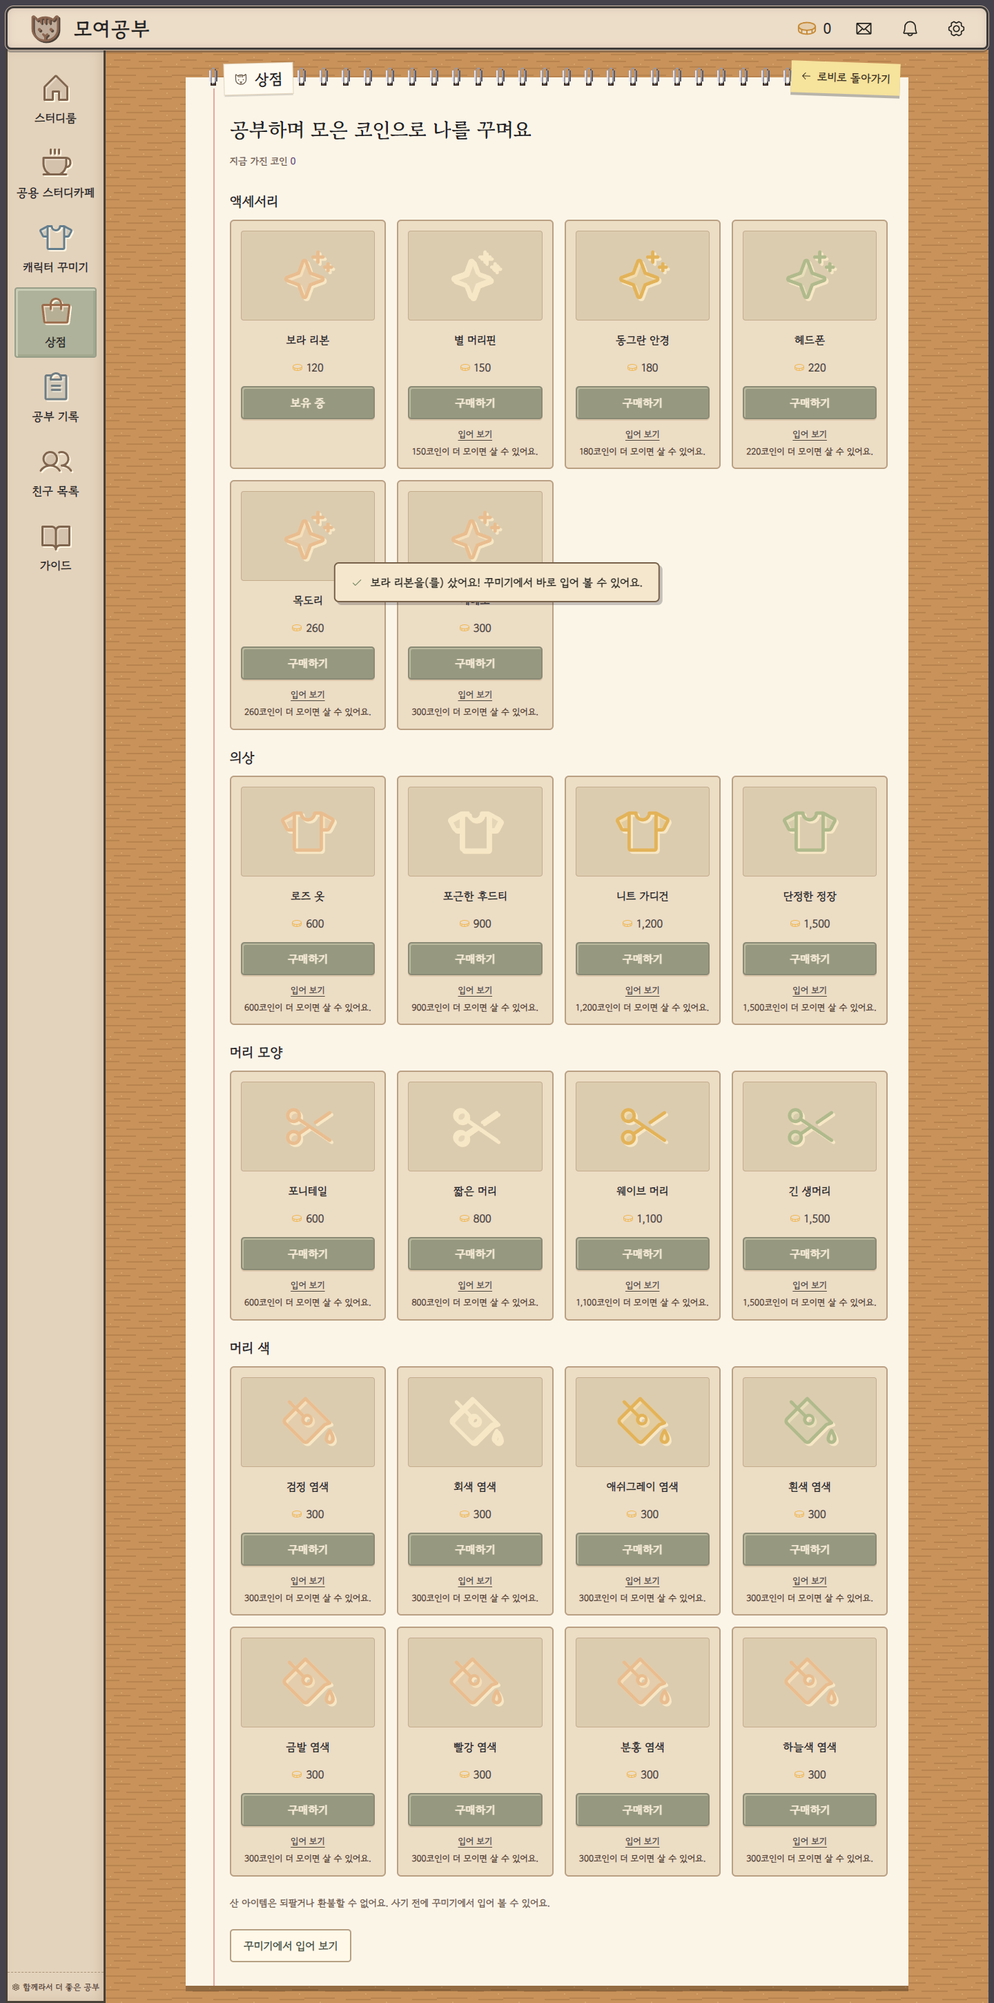
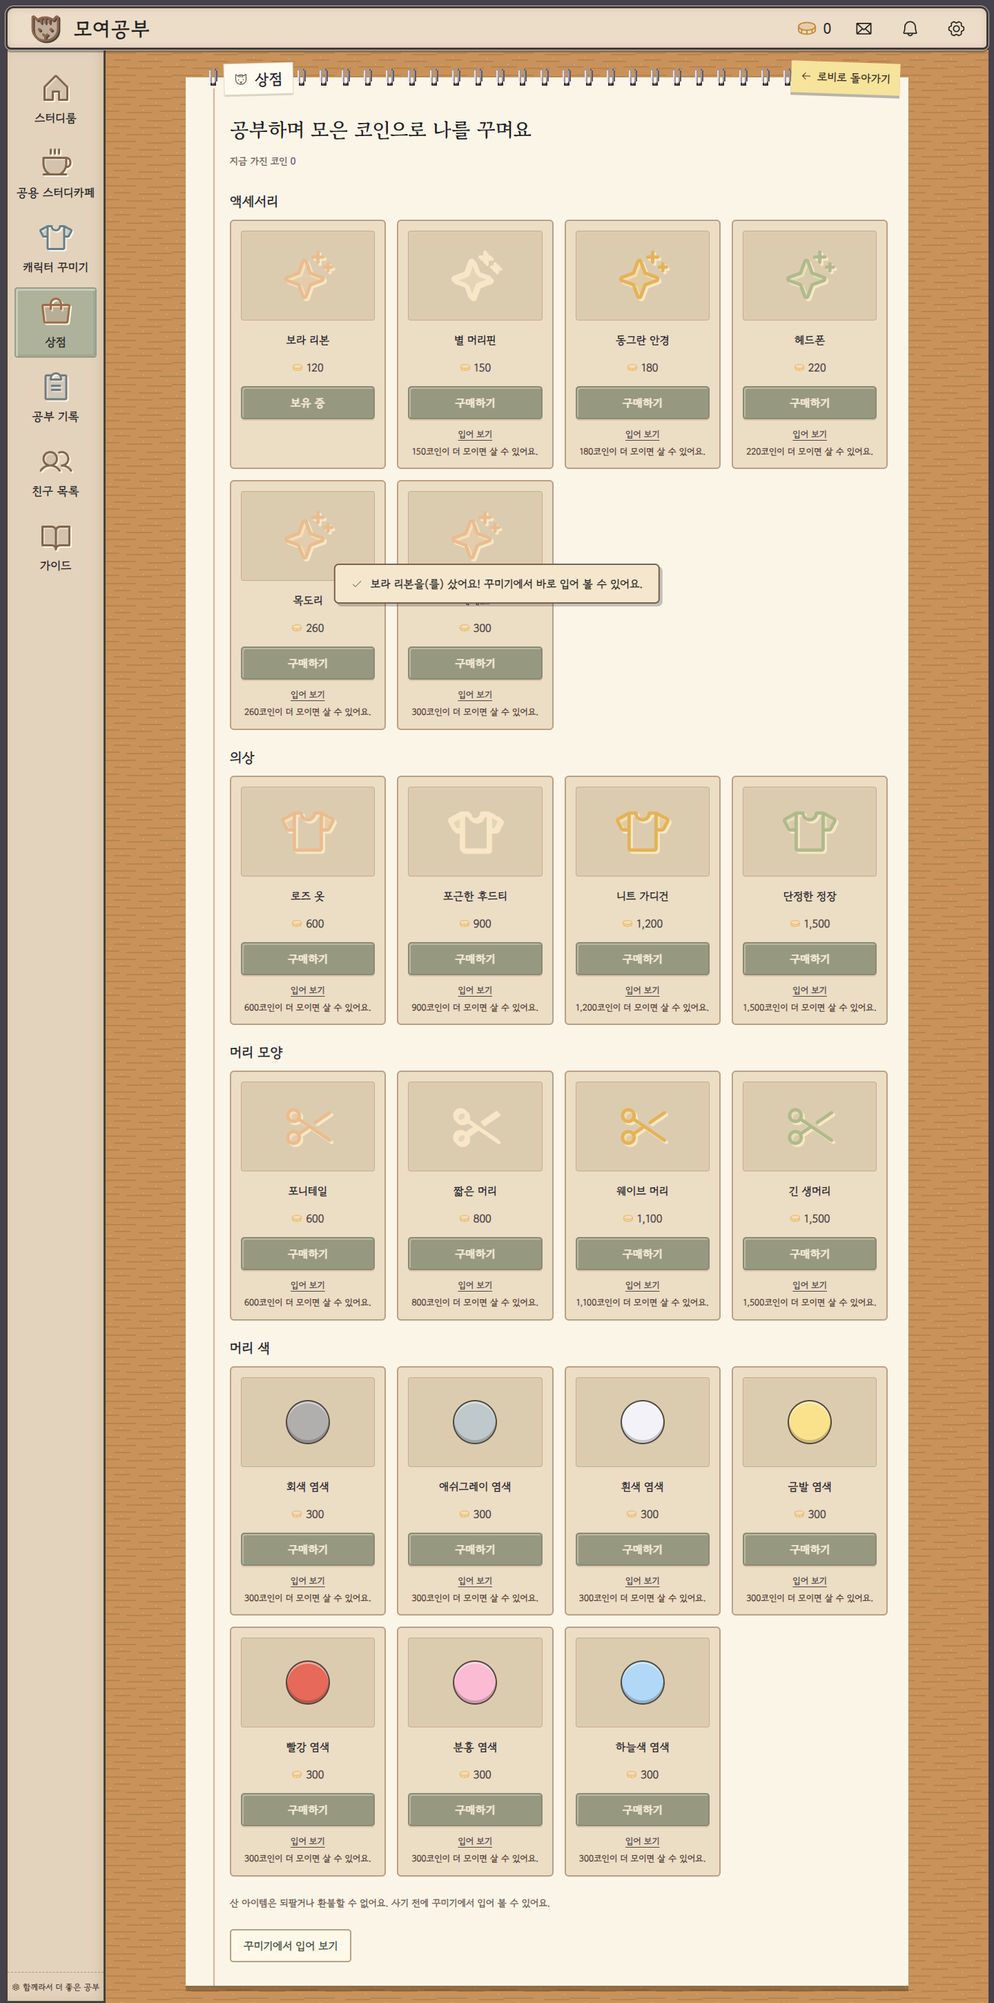
feat: creator-style customize screen with color swatches, black defaults
- hair color and eye color are picked from round color swatches; hair
  styles, outfits and accessories show a 2x thumbnail of your own
  character wearing that item (head or body crop), dimmed with a 준비 중
  tag while the item has no art yet; coin mark on items not owned
- the first look is 단발 머리 (bald until its art exists), black hair
  and black eyes; black hair is free with chestnut and lavender, the
  other seven dyes stay 300 coins
- shop cards for hair colors show the swatch instead of an icon
- LayerStack gets a decorative mode for the thumbnails (no role, no
  test id) so the big preview stays the only character-layers element

Both migrations are still unapplied, so they were edited in place.

Story: story-009-pixel-art

Claude-Session: https://claude.ai/code/session_01HWhC6cf8F1yVMHeXCiKLYb

diff --git a/src/features/character/view/CharacterPage.tsx b/src/features/character/view/CharacterPage.tsx
@@ -1,23 +1,37 @@
-import { Check } from "@phosphor-icons/react";
-import { useEffect, useRef } from "react";
+import { Check, Coin } from "@phosphor-icons/react";
+import { useEffect, useRef, type CSSProperties } from "react";
 import { useNavigate, useSearchParams } from "react-router-dom";
+import { ITEM_ASSETS } from "../../../config/shop";
 import { characterSprites } from "../../../study/characterSprites";
 import { useProfile } from "../../account/viewmodel/useAccount";
-import type { ItemSlot } from "../../shop/model/shop";
+import type { ItemSlot, ShopItem } from "../../shop/model/shop";
 import { ROUTES } from "../../shell/model/paths";
 import PageFrame from "../../shell/view/PageFrame";
 import { useAppState } from "../../shell/viewmodel/AppStateContext";
 import { tryOnNotice } from "../model/look";
-import { isWorn, useCustomize } from "../viewmodel/useCharacter";
+import type { Look } from "../model/layers";
+import { isWorn, useCustomize, wearItem } from "../viewmodel/useCharacter";
 import LayerStack from "./LayerStack";
 
-const SLOTS: readonly { slot: ItemSlot; label: string }[] = [
-  { slot: "hair", label: "머리 모양" },
-  { slot: "hair_color", label: "머리 색" },
-  { slot: "face", label: "눈" },
-  { slot: "outfit", label: "의상" },
-  { slot: "accessory", label: "액세서리" },
+/**
+ * 꾸미기 칸. 색(머리 색, 눈)은 색 동그라미로, 나머지는 내 캐릭터에 입혀 본 작은 그림으로 고른다.
+ * view가 head면 머리 부분을, body면 몸 부분을 잘라 보여 준다.
+ */
+const SLOTS: readonly { slot: ItemSlot; label: string; view: "swatch" | "head" | "body" }[] = [
+  { slot: "hair", label: "머리 모양", view: "head" },
+  { slot: "hair_color", label: "머리 색", view: "swatch" },
+  { slot: "face", label: "눈", view: "swatch" },
+  { slot: "outfit", label: "의상", view: "body" },
+  { slot: "accessory", label: "액세서리", view: "head" },
 ];
+
+/** 선택지 그림: 지금 모습에 이 아이템만 입힌 모습 (액세서리는 이미 쓰고 있어도 쓴 모습). */
+const previewWith = (look: Look, item: ShopItem): Look =>
+  item.slot === "accessory" ? { ...look, accessory: item.id } : wearItem(look, item.slot, item.id);
+
+/** 선택지 상태 글: 기본, 보유 중, 입어 보기 가격. */
+const ownership = (item: ShopItem) =>
+  item.isDefault ? "기본" : item.owned ? "보유 중" : `입어 보기 ${item.price.toLocaleString()}코인`;
 
 const BASE_SPRITE = characterSprites.idle.down[0];
 
@@ -48,7 +62,7 @@ export default function CharacterPage() {
         <h1>{c.firstTime ? "처음 꾸미기" : "오늘은 어떤 모습으로 공부할까?"}</h1>
         <p>
           {c.firstTime
-            ? "머리 색 2종, 눈 색 7종, 의상 2종을 무료로 드려요. 마음에 드는 모습을 골라 시작해 보세요."
+            ? "머리 색 3종, 눈 색 7종, 의상 2종을 무료로 드려요. 마음에 드는 모습을 골라 시작해 보세요."
             : "산 아이템은 바로 적용하고, 사지 않은 아이템은 입어 볼 수 있어요."}
         </p>
       </div>
@@ -69,31 +83,51 @@ export default function CharacterPage() {
             <span className={c.tryingOn.length ? "try-on-note" : ""}>{c.tryingOn.length ? tryOnNotice : c.changed ? "바꾼 모습이에요. 저장하면 적용돼요." : "지금 적용된 모습"}</span>
           </div>
           <div className="wardrobe">
-            {slots.map(({ slot, label }) => (
-              <section key={slot} className="wardrobe-slot" aria-label={label}>
-                <h2>{label}</h2>
-                <div className="outfit-options item-options">
-                  {shown
-                    .filter((i) => i.slot === slot)
-                    .map((item) => {
+            {slots.map(({ slot, label, view }) => {
+              const options = shown.filter((i) => i.slot === slot);
+              const picked = options.find((i) => isWorn(c.look, i));
+              return (
+                <section key={slot} className="wardrobe-slot" aria-label={label}>
+                  <h2>
+                    {label}
+                    {picked && <small className="picked-name">{picked.name}</small>}
+                  </h2>
+                  <div className={`outfit-options item-options ${view === "swatch" ? "swatch-options" : "thumb-options"}`}>
+                    {options.map((item) => {
                       const worn = isWorn(c.look, item);
+                      const state = ownership(item);
+                      const asset = ITEM_ASSETS[item.id];
+                      const soon = asset?.placeholder !== false;
                       return (
                         <button
                           key={item.id}
                           data-item={item.id}
                           aria-pressed={worn}
-                          className={`${worn ? "selected" : ""} ${item.owned ? "" : "not-owned"}`}
+                          aria-label={`${item.name}, ${state}`}
+                          title={`${item.name}, ${state}`}
+                          className={`${view === "swatch" ? "swatch" : "thumb"} ${worn ? "selected" : ""} ${item.owned ? "" : "not-owned"}`}
                           onClick={() => c.wear(item)}
                         >
-                          <strong>{item.name}</strong>
-                          <small>{item.isDefault ? "기본" : item.owned ? "보유 중" : `입어 보기 ${item.price.toLocaleString()}코인`}</small>
-                          {worn && <Check />}
+                          {view === "swatch" ? (
+                            <span className="color-swatch" style={{ "--swatch": asset?.swatch ?? "#c0a98d" } as CSSProperties} />
+                          ) : (
+                            <>
+                              <span className={`thumb-window thumb-${view}${soon ? " soon" : ""}`}>
+                                <LayerStack look={previewWith(c.look, item)} label="" decorative className="thumb-stack" />
+                                {soon && <span className="thumb-soon">준비 중</span>}
+                              </span>
+                              <small>{item.name}</small>
+                            </>
+                          )}
+                          {!item.owned && <Coin className="price-mark" weight="fill" />}
+                          {worn && <Check className="worn-mark" />}
                         </button>
                       );
                     })}
-                </div>
-              </section>
-            ))}
+                  </div>
+                </section>
+              );
+            })}
             {c.tryingOn.length > 0 && (
               <p className="buy-reason" role="status">
                 입어 본 {trying}은(는) 상점에서 산 뒤 저장할 수 있어요.

diff --git a/src/config/shop.ts b/src/config/shop.ts
@@ -27,42 +27,44 @@ export interface ItemAsset {
   hairStyle?: string;
   /** 머리 색 아이템: 머리 시트 이름의 색 부분. */
   hairColor?: string;
+  /** 색 견본: 머리 색과 눈 색은 꾸미기에서 이름 대신 이 색 동그라미로 고른다. */
+  swatch?: string;
 }
 
 const sheet = (name: string): LayerSource => ({ sheet: `/assets/characters/layers/${name}.png` });
-/** 눈 색 아이템: 얼굴 레이어 시트 하나. */
-const face = (id: string): ItemAsset => ({ placeholder: false, layers: { face: sheet(id) } });
+/** 눈 색 아이템: 얼굴 레이어 시트 하나. 견본은 눈동자 중간 톤(recolor의 0.65 자리). */
+const face = (id: string, swatch: string): ItemAsset => ({ placeholder: false, layers: { face: sheet(id) }, swatch });
 /** 머리 모양 아이템. 시트는 머리 색과 함께 정해진다 (hairSheet). */
 const hairStyle = (style: string): ItemAsset => ({ placeholder: false, layers: {}, hairStyle: style });
-/** 머리 색 아이템. 모든 머리 모양에 쓴다. */
-const hairColor = (color: string): ItemAsset => ({ placeholder: false, layers: {}, hairColor: color });
+/** 머리 색 아이템. 모든 머리 모양에 쓴다. 견본은 웨이브 머리 시트에서 가장 많이 쓴 밝은 톤. */
+const hairColor = (color: string, swatch: string): ItemAsset => ({ placeholder: false, layers: {}, hairColor: color, swatch });
 
 /** 아이템 id → 그림. 표에 없는 id는 그리지 않는다 (서버에 새 아이템이 먼저 생겨도 화면이 깨지지 않는다). */
 export const ITEM_ASSETS: Readonly<Record<string, ItemAsset>> = {
   // 기본 몸: 머리카락과 눈, 입이 없는 몸, 회색 바디슈트.
   "body-basic": { placeholder: false, layers: { body: sheet("body-basic") } },
   // 기본 얼굴(보라 눈): 승인 시안 N1의 눈과 입 (art-src/characters/src/face/basic).
-  "face-basic": face("face-basic"),
+  "face-basic": face("face-basic", "#5707a7"),
   // 아래 눈 색은 기본 얼굴의 눈동자 색만 바꿨다 (art-src/characters/src/recolor/<id>.json).
-  "face-black": face("face-black"),
-  "face-brown": face("face-brown"),
-  "face-amber": face("face-amber"),
-  "face-green": face("face-green"),
-  "face-blue": face("face-blue"),
-  "face-gray": face("face-gray"),
+  "face-black": face("face-black", "#322c36"),
+  "face-brown": face("face-brown", "#804620"),
+  "face-amber": face("face-amber", "#c87612"),
+  "face-green": face("face-green", "#228048"),
+  "face-blue": face("face-blue", "#285cc4"),
+  "face-gray": face("face-gray", "#6c727e"),
   // 머리 모양. 웨이브는 처음 승인한 N1 머리카락이다 (art-src/characters/src/hair/wave).
   "hair-wave": hairStyle("wave"),
   // 머리 색 (art-src/characters/src/recolor/hair-color/<색>.json, 라벤더는 원재료 색 그대로).
-  "hair-color-lavender": hairColor("lavender"),
-  "hair-color-chestnut": hairColor("chestnut"),
-  "hair-color-black": hairColor("black"),
-  "hair-color-gray": hairColor("gray"),
-  "hair-color-ashgray": hairColor("ashgray"),
-  "hair-color-white": hairColor("white"),
-  "hair-color-blonde": hairColor("blonde"),
-  "hair-color-red": hairColor("red"),
-  "hair-color-pink": hairColor("pink"),
-  "hair-color-skyblue": hairColor("skyblue"),
+  "hair-color-black": hairColor("black", "#3a3848"),
+  "hair-color-chestnut": hairColor("chestnut", "#a9633d"),
+  "hair-color-lavender": hairColor("lavender", "#d2aef0"),
+  "hair-color-gray": hairColor("gray", "#b1afad"),
+  "hair-color-ashgray": hairColor("ashgray", "#bfc9cb"),
+  "hair-color-white": hairColor("white", "#f2f2f8"),
+  "hair-color-blonde": hairColor("blonde", "#fae28d"),
+  "hair-color-red": hairColor("red", "#e66959"),
+  "hair-color-pink": hairColor("pink", "#fabbd3"),
+  "hair-color-skyblue": hairColor("skyblue", "#b1d8f6"),
   // 교복: 완성 캐릭터에서 임시로 떼어 냈다 (art-src/characters/src/outfit/uniform/FROM-FULL-CHARACTER).
   "outfit-lavender": { placeholder: false, layers: { outfit: sheet("outfit-uniform") } },
   "acc-ribbon": { placeholder: false, layers: { accessory: sheet("acc-ribbon") } },
@@ -72,7 +74,7 @@ export const ITEM_ASSETS: Readonly<Record<string, ItemAsset>> = {
   "outfit-hoodie": { placeholder: true, layers: {}, bodyTint: "outfit-세이지" },
   "outfit-cardigan": { placeholder: true, layers: {}, bodyTint: "outfit-로즈" },
   "outfit-suit": { placeholder: true, layers: {} },
-  // 기본 머리: 단순한 머리 그림을 만들기 전까지 머리카락 없이 보인다.
+  // 단발 머리(기본): 그림을 만들기 전까지 머리카락 없이 보인다.
   "hair-basic": { placeholder: true, layers: {} },
   "hair-ponytail": { placeholder: true, layers: {} },
   "hair-short": { placeholder: true, layers: {} },
@@ -94,13 +96,13 @@ export function hairSheet(styleId: string, colorId: string, which: "front" | "ba
   return style && color ? sheet(`hair-${style}-${color}-${which}`) : null;
 }
 
-/** 아직 저장한 꾸밈이 없을 때 보여 주는 모습 (서버 기본 아이템 id). */
+/** 아직 저장한 꾸밈이 없을 때 보여 주는 모습 (서버 기본 아이템 id): 단발 머리, 검은 머리, 검은 눈. */
 export const DEFAULT_LOOK = {
   body: "body-basic",
-  face: "face-basic",
+  face: "face-black",
   hair_back: "hair-basic",
   hair_front: "hair-basic",
-  hair_color: "hair-color-lavender",
+  hair_color: "hair-color-black",
   outfit: "outfit-lavender",
   accessory: null,
 } as const;

diff --git a/src/styles.css b/src/styles.css
@@ -589,6 +589,10 @@ button:active {
   border: 1px solid #c4ac8d;
   border-radius: 4px;
 }
+.item-art .color-swatch {
+  width: 64px;
+  height: 64px;
+}
 .item-art svg {
   width: 78px;
   height: 78px;
@@ -1326,6 +1330,93 @@ button:active {
 .item-options button small {
   color: #826a56;
   font-size: 12px;
+}
+/* 꾸미기 선택지 (Story 009): 색은 동그라미, 나머지는 내 캐릭터에 입혀 본 2배 작은 그림 */
+.wardrobe-slot h2 {
+  display: flex;
+  align-items: baseline;
+  gap: 10px;
+}
+.picked-name {
+  color: #86735e;
+  font-size: 13px;
+  font-weight: 400;
+}
+.item-options button.swatch {
+  width: 46px;
+  height: 46px;
+  padding: 4px;
+  border-radius: 50%;
+}
+.color-swatch {
+  display: block;
+  width: 100%;
+  height: 100%;
+  border: 2px solid #50483f;
+  border-radius: 50%;
+  background: var(--swatch);
+  box-shadow: inset 0 -4px 0 rgb(0 0 0 / 18%), inset 0 3px 0 rgb(255 255 255 / 40%);
+}
+.item-options button.thumb {
+  width: 110px;
+  padding: 6px 6px 8px;
+}
+.thumb-window {
+  position: relative;
+  display: block;
+  width: 96px;
+  height: 88px;
+  overflow: hidden;
+  background: #fbf5e8;
+  border: 1px solid #b6a084;
+}
+/* 56×72 칸을 정확히 2배(112×144)로 그리고 가운데 48칸 너비에서 머리(4~48줄)나 몸(28~72줄)만 창에 맞춘다. */
+.thumb-window .thumb-stack {
+  position: absolute;
+  left: -8px;
+  width: 112px;
+  border: 0;
+  background: none;
+}
+.thumb-head .thumb-stack {
+  top: -8px;
+}
+.thumb-body .thumb-stack {
+  top: -56px;
+}
+/* 전용 그림이 아직 없는 아이템: 흐리게 두고 위쪽에 작은 표를 붙인다. */
+.thumb-window.soon .thumb-stack {
+  opacity: 0.45;
+}
+.thumb-soon {
+  position: absolute;
+  z-index: 60;
+  top: 0;
+  right: 0;
+  padding: 1px 6px;
+  background: #3b2c22;
+  color: #f4e8d5;
+  font-size: 12px;
+}
+.item-options .price-mark {
+  position: absolute;
+  z-index: 61;
+  top: -6px;
+  left: -6px;
+  color: #f1b854;
+  background: #3b2c22;
+  border-radius: 50%;
+}
+.item-options .worn-mark {
+  position: absolute;
+  z-index: 61;
+  top: -6px;
+  right: -6px;
+}
+.item-options button.swatch .worn-mark,
+.item-options button.swatch .price-mark {
+  width: 16px;
+  height: 16px;
 }
 .item-options button.not-owned {
   border-style: dashed;

diff --git a/src/features/character/view/LayerStack.tsx b/src/features/character/view/LayerStack.tsx
@@ -11,6 +11,8 @@ interface Props {
   frame?: number;
   label: string;
   className?: string;
+  /** 꾸미기 선택지의 작은 미리보기: 보조 기술에서 숨기고 테스트 id도 달지 않는다 (큰 미리보기와 헷갈리지 않게). */
+  decorative?: boolean;
 }
 
 /**
@@ -18,12 +20,12 @@ interface Props {
  * data-layer-* 속성에 레이어마다 고른 아이템 id(머리는 모양)가, data-hair-color에 머리 색이,
  * data-direction과 data-frame에 지금 방향과 시트 칸이 남는다.
  */
-export default function LayerStack({ look, action = "idle", direction = "down", frame = 0, label, className = "" }: Props) {
+export default function LayerStack({ look, action = "idle", direction = "down", frame = 0, label, className = "", decorative = false }: Props) {
   const index = frameIndex(action, direction, frame);
   const layers = composeLayers(look);
   const data = Object.fromEntries(layers.map((l) => [`data-layer-${l.id.replace("_", "-")}`, l.itemId ?? ""]));
   return (
-    <div className={`layer-stack ${className}`} role="img" aria-label={label} data-testid="character-layers"
+    <div className={`layer-stack ${className}`} {...(decorative ? { "aria-hidden": true } : { role: "img", "aria-label": label, "data-testid": "character-layers" })}
       data-direction={direction} data-pose={`${action}.${direction}`} data-frame={index}
       style={{ aspectRatio: `${CANVAS.width} / ${CANVAS.height}` }} data-hair-color={look.hair_color} {...data}>
       {layers.map((l) =>

diff --git a/src/features/shop/view/ShopPage.tsx b/src/features/shop/view/ShopPage.tsx
@@ -1,6 +1,7 @@
 import { Coin, PaintBucket, Scissors, Sparkle, TShirt, type Icon } from "@phosphor-icons/react";
-import { useState } from "react";
+import { useState, type CSSProperties } from "react";
 import { useNavigate } from "react-router-dom";
+import { ITEM_ASSETS } from "../../../config/shop";
 import { ROUTES } from "../../shell/model/paths";
 import PageFrame from "../../shell/view/PageFrame";
 import { useAppState } from "../../shell/viewmodel/AppStateContext";
@@ -51,7 +52,11 @@ export default function ShopPage() {
                     return (
                       <div className="shop-item" key={item.id} data-item={item.id}>
                         <div className="item-art">
-                          <ItemIcon weight="duotone" />
+                          {ITEM_ASSETS[item.id]?.swatch ? (
+                            <span className="color-swatch" style={{ "--swatch": ITEM_ASSETS[item.id]?.swatch } as CSSProperties} />
+                          ) : (
+                            <ItemIcon weight="duotone" />
+                          )}
                         </div>
                         <h3>{item.name}</h3>
                         <span className="price">

diff --git a/production/epics/moyeogongbu/story-009-pixel-art.md b/production/epics/moyeogongbu/story-009-pixel-art.md
@@ -68,13 +68,13 @@
 - 기본 (무료)
   - 몸: `body-basic`
   - 얼굴: `face-basic` (보라 눈), 눈 색 6종 (2026-10-31 추가, 눈동자 색만 바꿈): `face-black`, `face-brown`, `face-amber`, `face-green`, `face-blue`, `face-gray`
-  - 머리 모양: `hair-basic` (단순한 모양, 생성 전까지 머리카락 없음)
-  - 머리 색 2종: `hair-color-lavender`, `hair-color-chestnut`
+  - 머리 모양: `hair-basic` (단발 머리, 생성 전까지 머리카락 없음)
+  - 머리 색 3종: `hair-color-black` (처음 모습), `hair-color-chestnut`, `hair-color-lavender`
   - 의상 2종: `outfit-lavender`, `outfit-sage`
 - 상점 액세서리 6종: `acc-ribbon`, `acc-hairpin`, `acc-glasses`, `acc-headphones`, `acc-scarf`, `acc-beret`
 - 상점 의상 4종: `outfit-rose`, `outfit-hoodie`, `outfit-cardigan`, `outfit-suit`
 - 상점 머리 모양 4종: `hair-ponytail`, `hair-short`, `hair-wave` (N1의 긴 웨이브 머리), `hair-long` (각각 뒷머리, 앞머리)
-- 상점 머리 색 8종 (2026-10-31 추가, 300코인, 모든 머리 모양에 쓴다): `hair-color-black`, `hair-color-gray`, `hair-color-ashgray`, `hair-color-white`, `hair-color-blonde`, `hair-color-red`, `hair-color-pink`, `hair-color-skyblue`
+- 상점 머리 색 7종 (2026-10-31 추가, 300코인, 모든 머리 모양에 쓴다): `hair-color-gray`, `hair-color-ashgray`, `hair-color-white`, `hair-color-blonde`, `hair-color-red`, `hair-color-pink`, `hair-color-skyblue`
 - 머리 시트는 모양마다 10색: `hair-<모양>-<색>-front.png`, `-back.png` (모양은 라벤더로 생성하고 색은 색 띠 바꾸기)
 
 합계 시트 26장 (머리 6종 × 2장 + 몸 1 + 얼굴 1 + 의상 6 + 액세서리 6).

diff --git a/design/game-brief.md b/design/game-brief.md
@@ -93,7 +93,7 @@ UI 문구에는 가운뎃점을 쓰지 않는다.
 - 방 꾸미기는 슬롯 방식. 공용 공간 (벽, 창가, 휴게실)은 방장, 책상 위는 그 자리 주인. 남의 책상은 꾸밀 수 없고, 친구가 앉아 있으면 그 친구가 꾸민 책상이 보인다.
 
 - 첫 출시 상점: 캐릭터 아이템만 (액세서리 6, 의상 4, 머리 모양 4, 머리 색 8). 머리 모양과 머리 색은 따로 고르고, 산 색은 모든 머리 모양에 쓴다 (2026-10-31 결정). 책상 소품과 공용 가구는 방 꾸미기 슬롯과 함께 올린다.
-- 가입 시 기본 몸, 눈 색 7종 (보라, 검정, 갈색, 호박색, 초록, 파랑, 회색), 기본 머리 (단순한 모양, 그림이 생기기 전까지는 머리카락 없음), 머리 색 2종 (라벤더, 밤색), 의상 2종 무료, 환영 선물 120코인 (우편). 입어 보기 가능, 환불과 되팔기 없음.
+- 가입 시 기본 몸, 눈 색 7종 (보라, 검정, 갈색, 호박색, 초록, 파랑, 회색), 단발 머리 (그림이 생기기 전까지는 머리카락 없음), 머리 색 3종 (검정, 밤색, 라벤더), 의상 2종 무료. 처음 모습은 단발 머리, 검은 머리, 검은 눈, 환영 선물 120코인 (우편). 입어 보기 가능, 환불과 되팔기 없음.
 
 | 품목 | 가격 (코인) | 공부 시간 환산 |
 |---|---|---|
